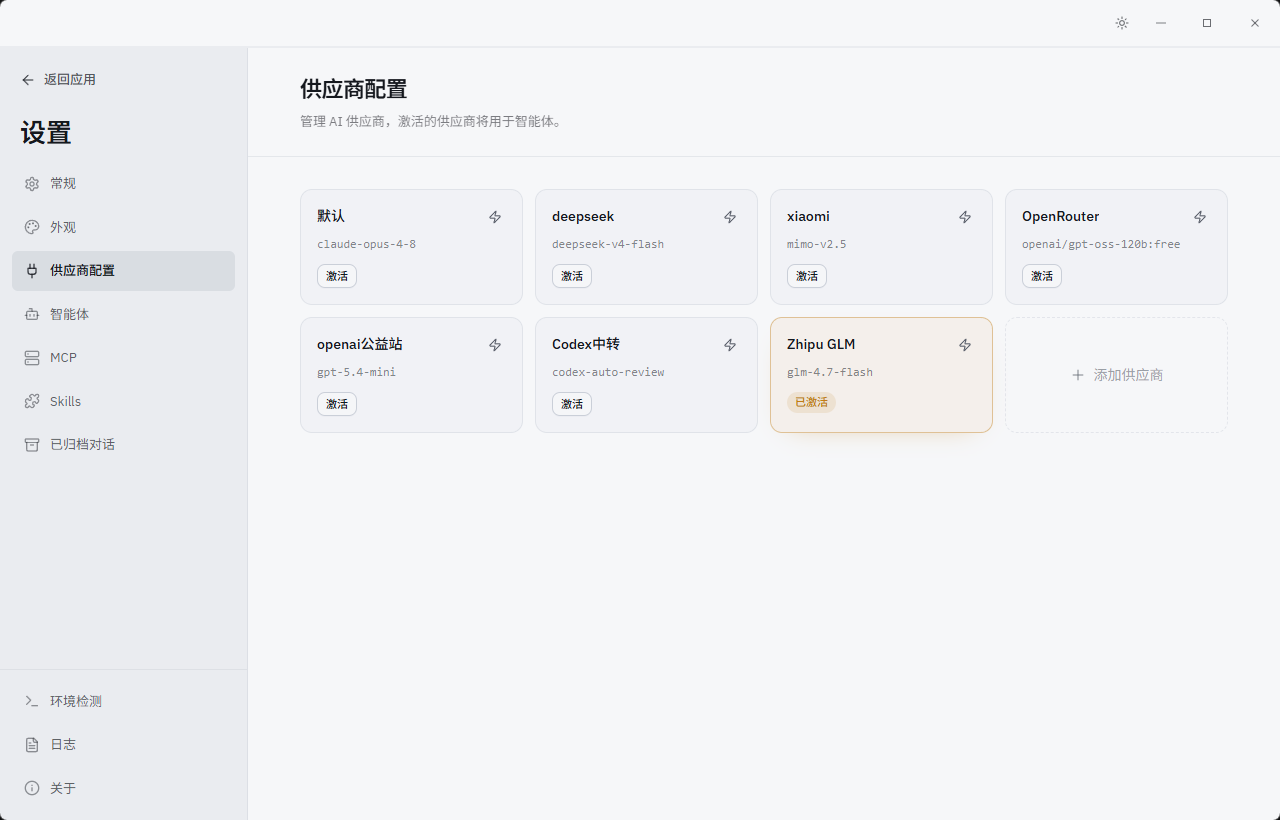
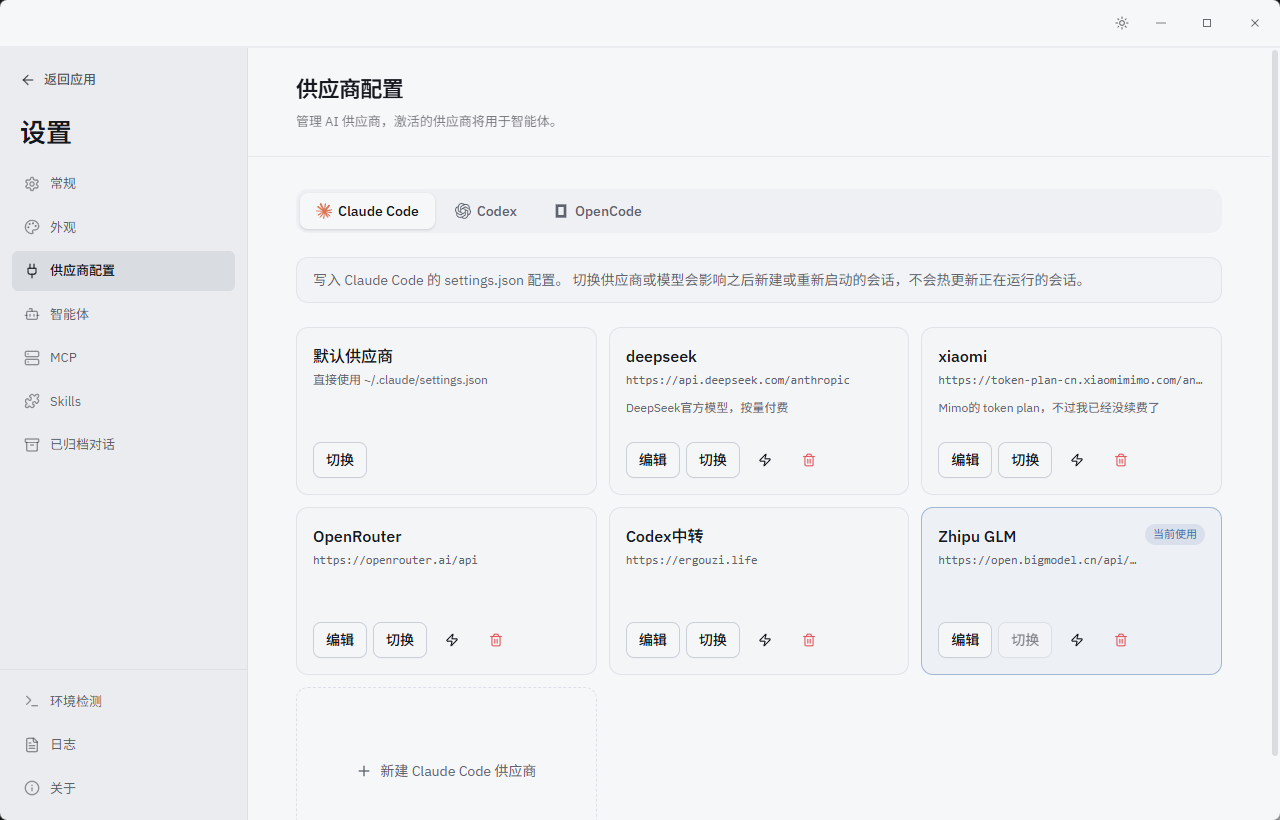
refactor(provider): 优化模型配置和API密钥处理逻辑
- 过滤模型配置中的空ID
- 同步API密钥和基础URL到advancedConfig
- 更新JSON配置处理逻辑

diff --git a/src/components/settings/ProviderConfig.tsx b/src/components/settings/ProviderConfig.tsx
@@ -122,7 +122,7 @@ function profileToUpsert(agentKind: ProfileAgentKind, draft: ProfileDraft): Agen
   const models = agentKind === 'codex' && draft.modelCatalog.length > 0
     ? draft.modelCatalog.map((m) => ({ id: m.model, name: m.displayName || m.model }))
     : agentKind === 'opencode'
-      ? Object.entries(draft.modelsConfig).map(([id, m]) => ({ id, name: m.name || id }))
+      ? Object.entries(draft.modelsConfig).filter(([id]) => id.trim()).map(([id, m]) => ({ id, name: m.name || id }))
       : modelsFromText(draft.models).map((id) => ({ id, name: id }));
   const common = { id: draft.id, agent_kind: agentKind, name: draft.name.trim(), note: draft.note.trim(), models, default_model: agentKind === 'codex' ? (draft.defaultModel.trim() || '') : '' };
   const advanced = draft.advancedConfig.trim() ? JSON.parse(draft.advancedConfig) : undefined;
@@ -532,7 +532,7 @@ function OpenCodeAdvancedOptions({ editing, setEditing }: OpenCodeAdvancedOption
   }, [setEditing]);
 
   const handleModelIdChangeWithSync = useCallback((oldKey: string, newKey: string) => {
-    if (oldKey === newKey || !newKey.trim()) return;
+    if (oldKey === newKey) return;
     setEditing((prev) => {
       if (!prev) return prev;
       const next: Record<string, OpenCodeModel> = {};
@@ -651,14 +651,18 @@ function OpenCodeAdvancedOptions({ editing, setEditing }: OpenCodeAdvancedOption
           <p className="text-xs text-destructive py-2">至少需要配置一个模型。</p>
         ) : (
           <div className="space-y-2">
+            <div className={`grid gap-2 text-xs font-medium text-muted-foreground ${fetchedModels.length > 0 ? 'grid-cols-[minmax(0,1fr)_minmax(0,1fr)_40px_36px]' : 'grid-cols-[minmax(0,1fr)_minmax(0,1fr)_36px]'}`}>
+              <span>显示名称</span>
+              <span>实际请求模型</span>
+              {fetchedModels.length > 0 && <span />}
+              <span />
+            </div>
             {Object.entries(editing.modelsConfig).map(([key, model], index) => (
-              <div key={index} className="flex items-center gap-2">
-                <Input value={key} onChange={(e) => handleModelIdChangeWithSync(key, e.target.value)} placeholder="模型 ID" className="flex-1" />
-                <div className="flex gap-1 flex-1 items-center">
-                  <Input value={model.name ?? ''} onChange={(e) => handleModelNameChangeWithSync(key, e.target.value)} placeholder="显示名称" className="flex-1" />
-                  {fetchedModels.length > 0 && (
-                    <ModelDropdown models={fetchedModels} onSelect={(id) => handleSelectModelFromDropdownWithSync(key, id)} />
-                  )}
+              <div key={index} className={`grid gap-2 items-center ${fetchedModels.length > 0 ? 'grid-cols-[minmax(0,1fr)_minmax(0,1fr)_40px_36px]' : 'grid-cols-[minmax(0,1fr)_minmax(0,1fr)_36px]'}`}>
+                <Input value={model.name ?? ''} onChange={(e) => handleModelNameChangeWithSync(key, e.target.value)} placeholder="显示名称" />
+                <div className="flex gap-1">
+                  <Input value={key} onChange={(e) => handleModelIdChangeWithSync(key, e.target.value)} placeholder="模型 ID" className="flex-1" />
+                  {fetchedModels.length > 0 && <ModelDropdown models={fetchedModels} onSelect={(id) => handleSelectModelFromDropdownWithSync(key, id)} />}
                 </div>
                 <Button type="button" variant="ghost" size="icon" className="h-9 w-9 text-muted-foreground hover:text-destructive" onClick={() => handleRemoveModelWithSync(key)}>
                   <Trash2 className="h-4 w-4" />
@@ -803,6 +807,61 @@ export function ProviderConfigPanel() {
     }
   }, [editing, setEditing]);
 
+  // OpenCode: API Key → advancedConfig.options.apiKey sync
+  const handleOpenCodeApiKeyChange = useCallback((key: string) => {
+    if (!editing) return;
+    try {
+      const config = JSON.parse(editing.advancedConfig || '{}');
+      if (!config.options) config.options = {};
+      config.options.apiKey = key;
+      setEditing({ ...editing, apiKey: key, advancedConfig: JSON.stringify(config, null, 2) });
+    } catch {
+      setEditing({ ...editing, apiKey: key });
+    }
+  }, [editing, setEditing]);
+
+  // OpenCode: Base URL → advancedConfig.options.baseURL sync
+  const handleOpenCodeBaseUrlChange = useCallback((url: string) => {
+    if (!editing) return;
+    try {
+      const config = JSON.parse(editing.advancedConfig || '{}');
+      if (!config.options) config.options = {};
+      config.options.baseURL = url;
+      setEditing({ ...editing, baseUrl: url, advancedConfig: JSON.stringify(config, null, 2) });
+    } catch {
+      setEditing({ ...editing, baseUrl: url });
+    }
+  }, [editing, setEditing]);
+
+  // OpenCode: advancedConfig JSON change → extract apiKey, baseUrl, modelsConfig, etc.
+  const handleOpenCodeJsonChange = useCallback((value: string) => {
+    if (!editing) return;
+    try {
+      const parsed = JSON.parse(value);
+      const options = parsed.options || {};
+      const models = parsed.models || {};
+      const extra: Record<string, string> = {};
+      for (const [k, v] of Object.entries(options)) {
+        if (k === 'apiKey' || k === 'baseURL') continue;
+        extra[k] = typeof v === 'string' ? v : JSON.stringify(v);
+      }
+      const npm = parsed.npm || OPENCODE_DEFAULT_NPM;
+      const apiKey = typeof options.apiKey === 'string' ? options.apiKey : '';
+      const baseUrl = typeof options.baseURL === 'string' ? options.baseURL : '';
+      setEditing((prev) => prev ? {
+        ...prev,
+        advancedConfig: value,
+        apiKey,
+        baseUrl,
+        npmPackage: npm,
+        modelsConfig: models,
+        extraOptions: extra,
+      } : prev);
+    } catch {
+      setEditing((prev) => prev ? { ...prev, advancedConfig: value } : prev);
+    }
+  }, [editing, setEditing]);
+
   // On load: extract Base URL from config.toml if editing an existing profile
   useEffect(() => {
     if (!editing || agentKind !== 'codex') return;
@@ -931,6 +990,15 @@ export function ProviderConfigPanel() {
       return;
     }
     let draftToSave = editing;
+    if (agentKind === 'opencode') {
+      const filtered = Object.fromEntries(
+        Object.entries(draftToSave.modelsConfig).filter(([id]) => id.trim())
+      );
+      if (Object.keys(filtered).length !== Object.keys(draftToSave.modelsConfig).length) {
+        draftToSave = { ...draftToSave, modelsConfig: filtered };
+        setEditing(draftToSave);
+      }
+    }
     if (agentKind === 'claude_code') {
       const updatedCustomModels = draftToSave.claudeForm.customModels
         .filter((m) => m.requestModel.trim())
@@ -1032,8 +1100,8 @@ export function ProviderConfigPanel() {
               </Select>
               <p className="text-xs text-muted-foreground">选择与供应商匹配的 AI SDK 包。</p>
             </div>
-            <label className="block space-y-1.5 text-xs text-foreground">API Key<div className="relative"><Input aria-label="API Key" type={showKey ? 'text' : 'password'} value={editing.apiKey} onChange={(event) => setEditing({ ...editing, apiKey: event.target.value })} placeholder="输入 API Key" className="pr-10" /><button type="button" aria-label={showKey ? '隐藏 API Key' : '显示 API Key'} className="absolute right-2 top-1/2 -translate-y-1/2 text-muted-foreground" onClick={() => setShowKey(!showKey)}>{showKey ? <EyeOff className="size-4" /> : <Eye className="size-4" />}</button></div></label>
-            <label className="block space-y-1.5 text-xs text-foreground">{agent.baseUrlLabel}<Input value={editing.baseUrl} onChange={(event) => setEditing({ ...editing, baseUrl: event.target.value })} placeholder={agent.placeholder} /></label>
+            <label className="block space-y-1.5 text-xs text-foreground">API Key<div className="relative"><Input aria-label="API Key" type={showKey ? 'text' : 'password'} value={editing.apiKey} onChange={(event) => handleOpenCodeApiKeyChange(event.target.value)} placeholder="输入 API Key" className="pr-10" /><button type="button" aria-label={showKey ? '隐藏 API Key' : '显示 API Key'} className="absolute right-2 top-1/2 -translate-y-1/2 text-muted-foreground" onClick={() => setShowKey(!showKey)}>{showKey ? <EyeOff className="size-4" /> : <Eye className="size-4" />}</button></div></label>
+            <label className="block space-y-1.5 text-xs text-foreground">{agent.baseUrlLabel}<Input value={editing.baseUrl} onChange={(event) => handleOpenCodeBaseUrlChange(event.target.value)} placeholder={agent.placeholder} /></label>
             <OpenCodeAdvancedOptions editing={editing} setEditing={setEditing} />
             <div className="space-y-1.5">
               <div className="flex items-center justify-between">
@@ -1043,7 +1111,7 @@ export function ProviderConfigPanel() {
                 </Button>
               </div>
               <div className="rounded-lg border overflow-hidden">
-                <CodeMirror value={editing.advancedConfig} minHeight="120px" extensions={[json(), EditorView.lineWrapping]} theme={baseTheme} onChange={(value) => setEditing({ ...editing, advancedConfig: value })} />
+                <CodeMirror value={editing.advancedConfig} minHeight="120px" extensions={[json(), EditorView.lineWrapping]} theme={baseTheme} onChange={handleOpenCodeJsonChange} />
               </div>
             </div>
           </>}

diff --git a/src/types/agentRegistry.ts b/src/types/agentRegistry.ts
@@ -46,7 +46,7 @@ export const AGENT_REGISTRY: AgentDefinition[] = [
   {
     kind: 'opencode',
     label: 'OpenCode',
-    description: '基于 OpenCode SDK 的可恢复编码 Agent，复用 CodeMUX Provider、模型和工具。',
+    description: '基于 OpenCode SDK 的可恢复编码 Agent。',
     icon: 'opencode',
     capabilities: [
       'supports_resume',
